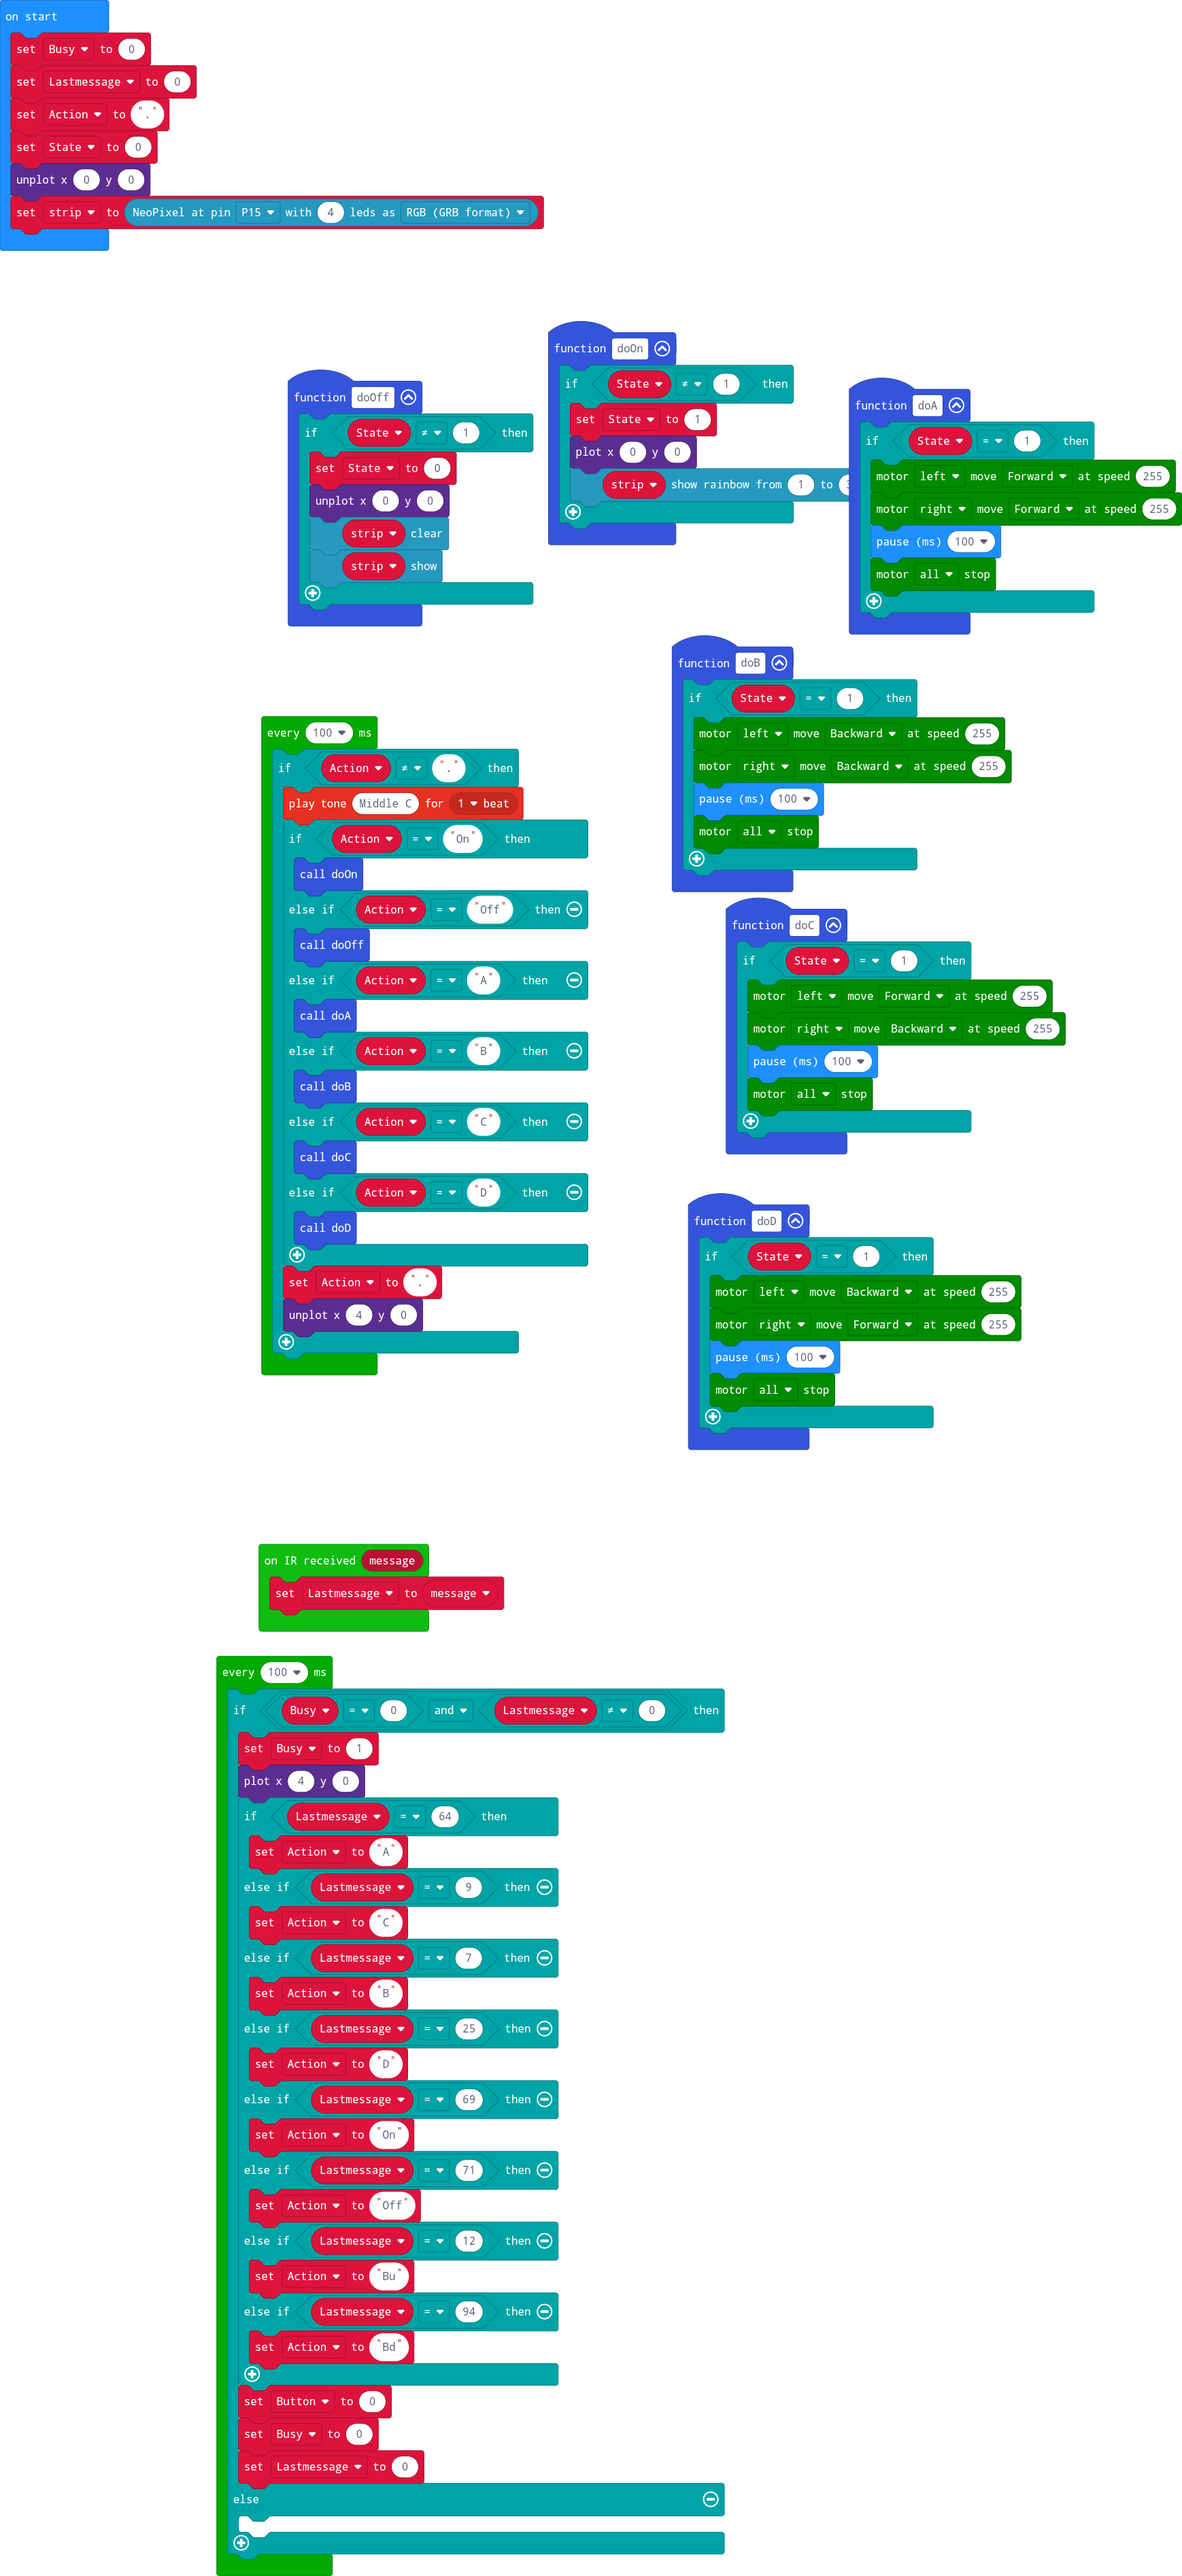
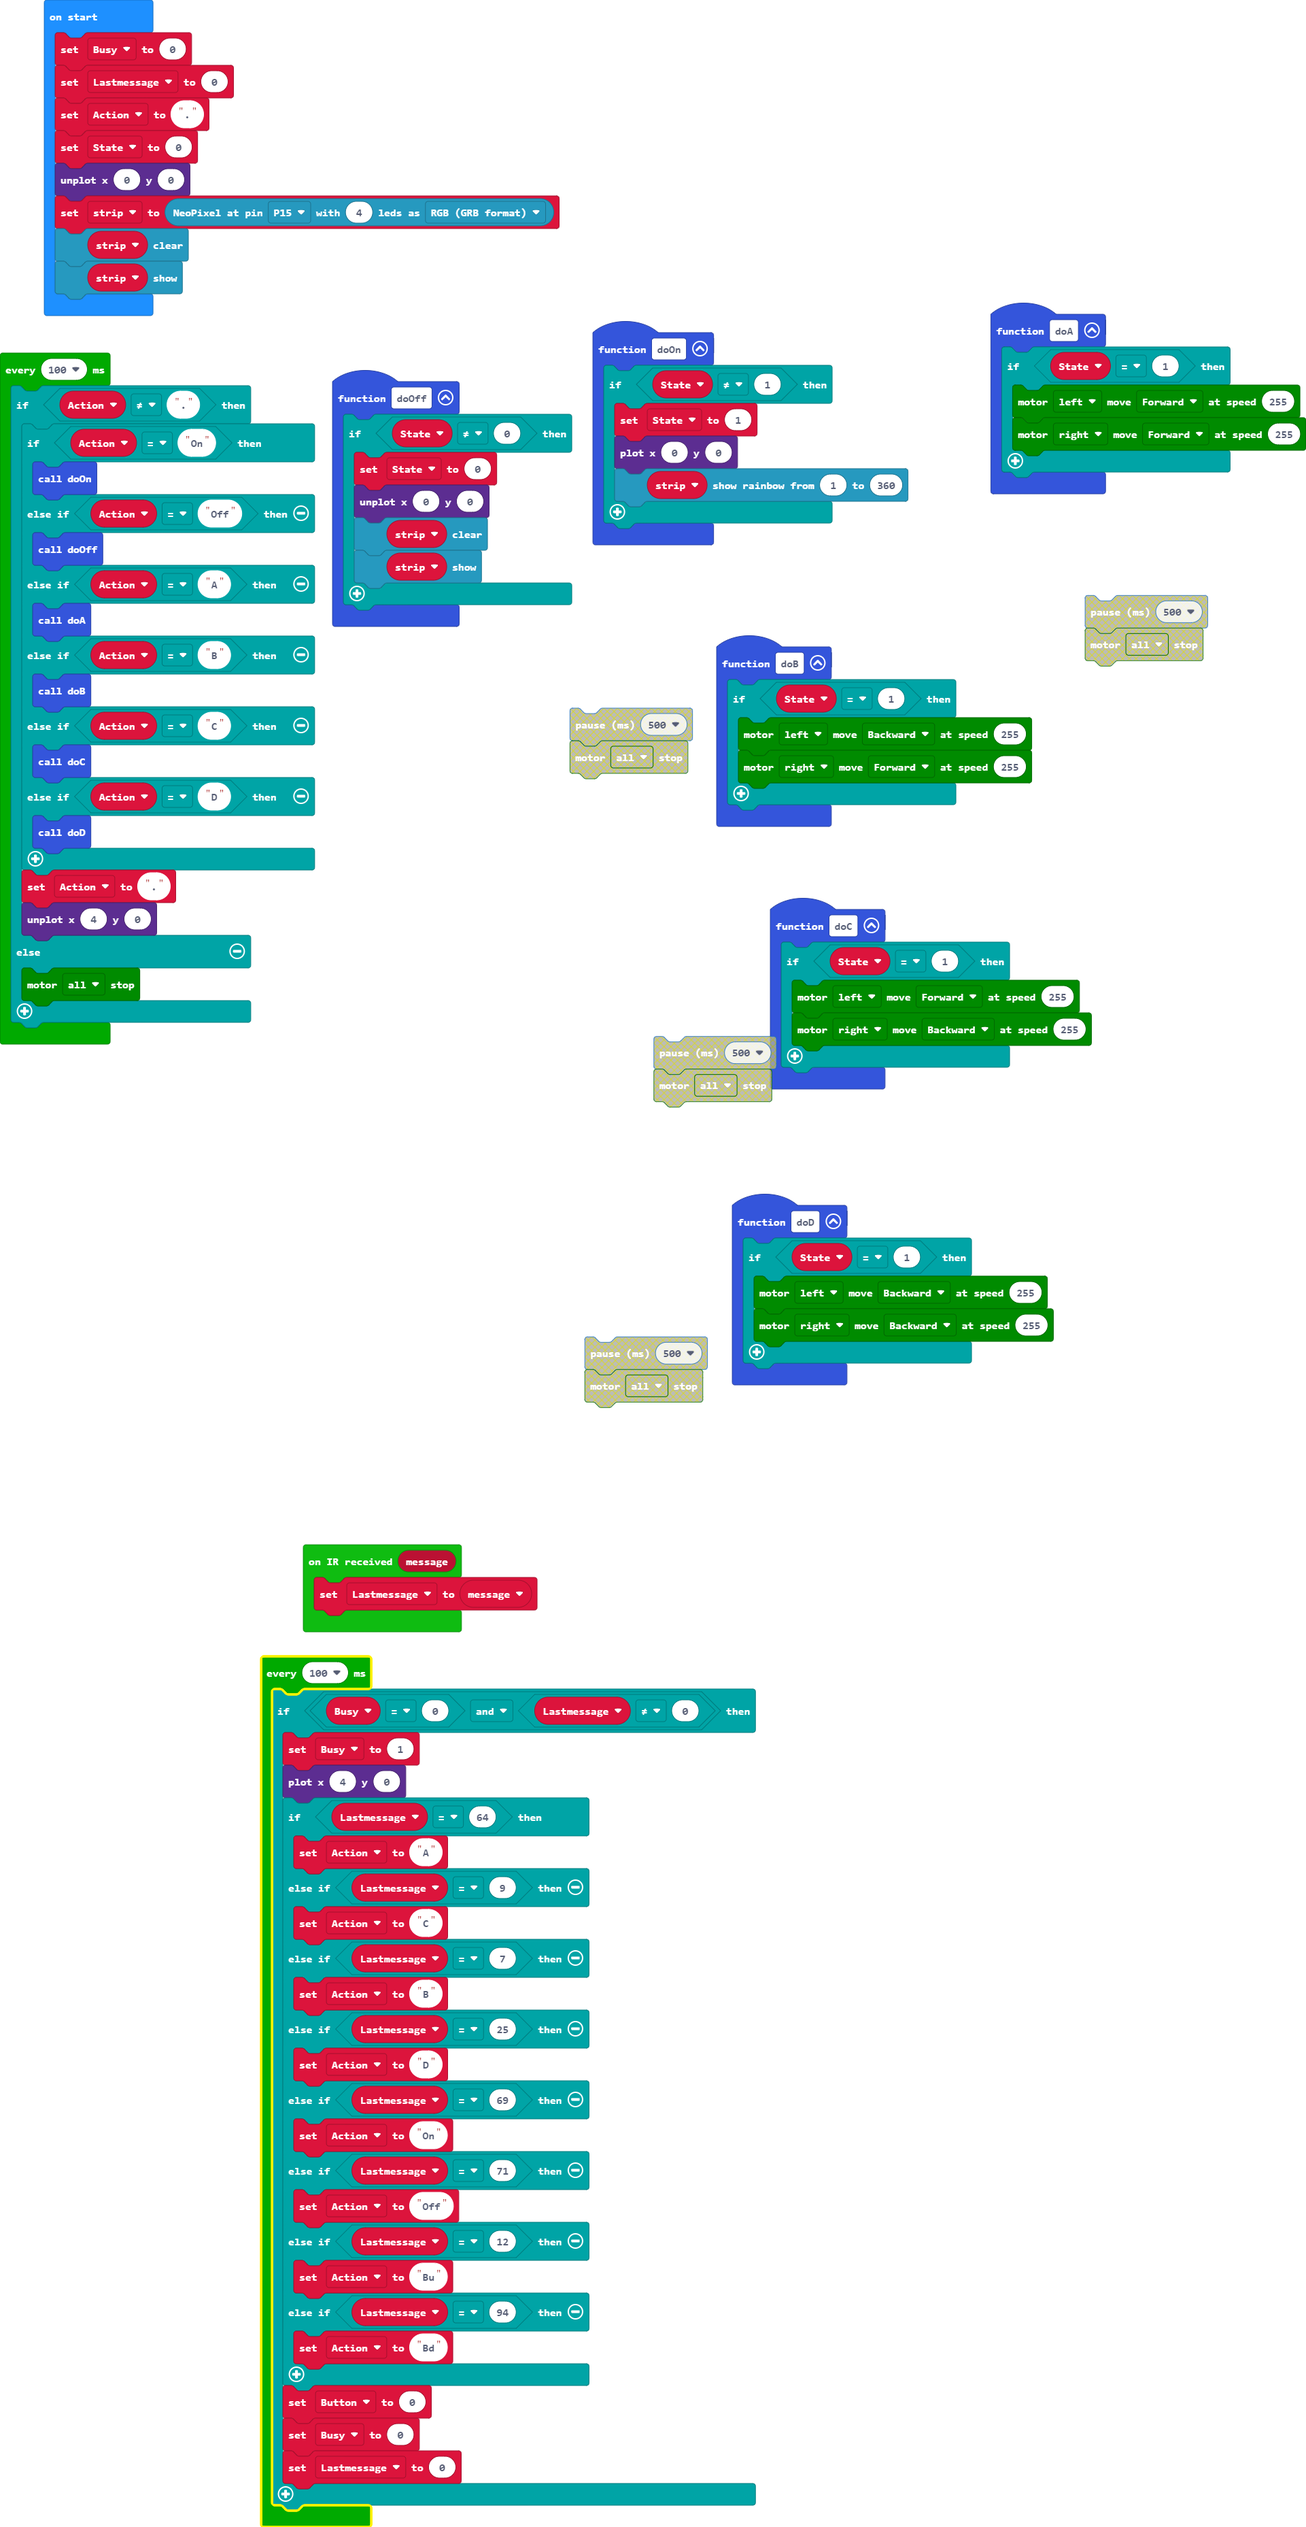
Update main.blocks, main.ts

Changed region(s): [[0.0, 0.0, 1.0, 0.562], [0.1554, 0.5933, 0.6214, 1.0]]

diff --git a/main.ts b/main.ts
@@ -1,5 +1,5 @@
 function doOff () {
-    if (State != 1) {
+    if (State != 0) {
         State = 0
         led.unplot(0, 0)
         strip.clear()
@@ -12,17 +12,13 @@ IR.IR_callbackUser(function (message) {
 function doD () {
     if (State == 1) {
         maqueen.motorRun(maqueen.Motors.M1, maqueen.Dir.CCW, 255)
-        maqueen.motorRun(maqueen.Motors.M2, maqueen.Dir.CW, 255)
-        basic.pause(100)
-        maqueen.motorStop(maqueen.Motors.All)
+        maqueen.motorRun(maqueen.Motors.M2, maqueen.Dir.CCW, 255)
     }
 }
 function doB () {
     if (State == 1) {
         maqueen.motorRun(maqueen.Motors.M1, maqueen.Dir.CCW, 255)
-        maqueen.motorRun(maqueen.Motors.M2, maqueen.Dir.CCW, 255)
-        basic.pause(100)
-        maqueen.motorStop(maqueen.Motors.All)
+        maqueen.motorRun(maqueen.Motors.M2, maqueen.Dir.CW, 255)
     }
 }
 function doOn () {
@@ -36,16 +32,12 @@ function doA () {
     if (State == 1) {
         maqueen.motorRun(maqueen.Motors.M1, maqueen.Dir.CW, 255)
         maqueen.motorRun(maqueen.Motors.M2, maqueen.Dir.CW, 255)
-        basic.pause(100)
-        maqueen.motorStop(maqueen.Motors.All)
     }
 }
 function doC () {
     if (State == 1) {
         maqueen.motorRun(maqueen.Motors.M1, maqueen.Dir.CW, 255)
         maqueen.motorRun(maqueen.Motors.M2, maqueen.Dir.CCW, 255)
-        basic.pause(100)
-        maqueen.motorStop(maqueen.Motors.All)
     }
 }
 let Button2 = 0
@@ -58,9 +50,10 @@ let Action = "."
 State = 0
 led.unplot(0, 0)
 strip = neopixel.create(DigitalPin.P15, 4, NeoPixelMode.RGB)
+strip.clear()
+strip.show()
 loops.everyInterval(100, function () {
     if (Action != ".") {
-        music.playTone(262, music.beat(BeatFraction.Whole))
         if (Action == "On") {
             doOn()
         } else if (Action == "Off") {
@@ -76,6 +69,8 @@ loops.everyInterval(100, function () {
         }
         Action = "."
         led.unplot(4, 0)
+    } else {
+        maqueen.motorStop(maqueen.Motors.All)
     }
 })
 loops.everyInterval(100, function () {
@@ -102,7 +97,5 @@ loops.everyInterval(100, function () {
         Button2 = 0
         Busy = 0
         Lastmessage = 0
-    } else {
-    	
     }
 })
